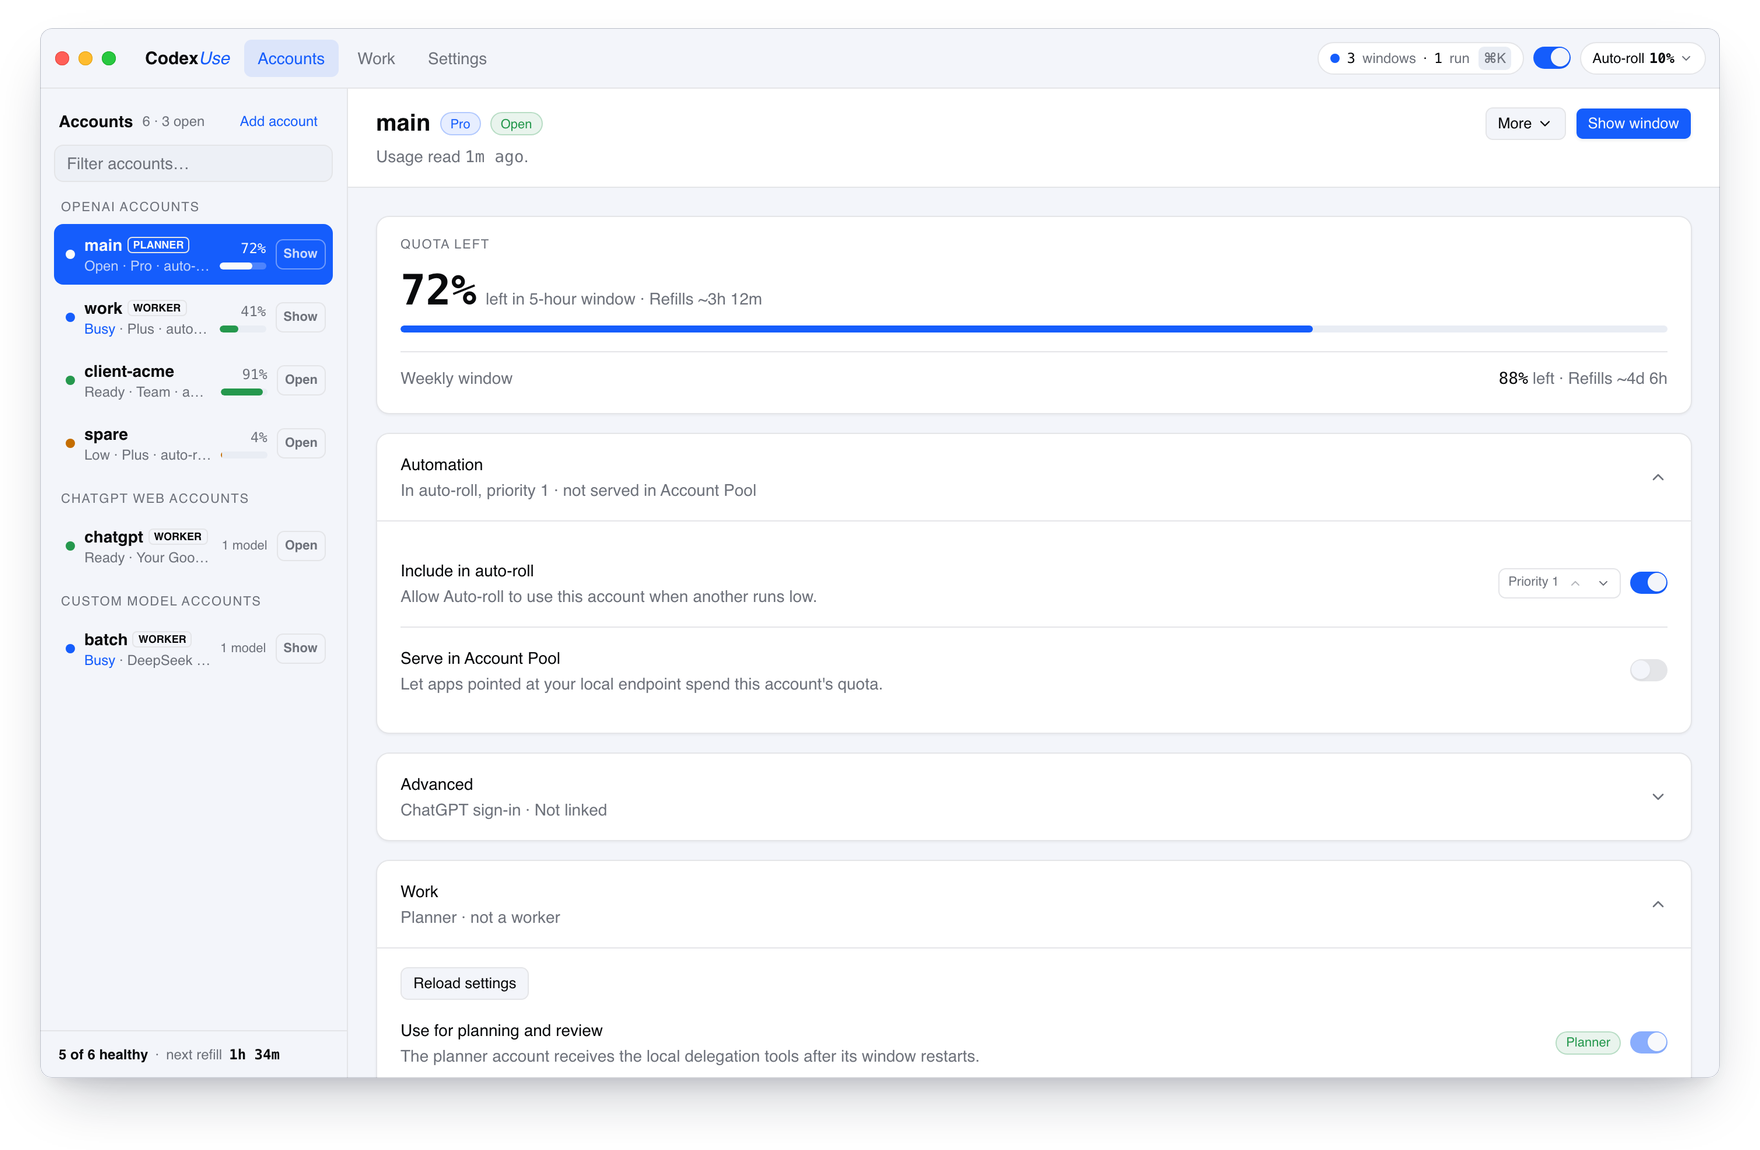
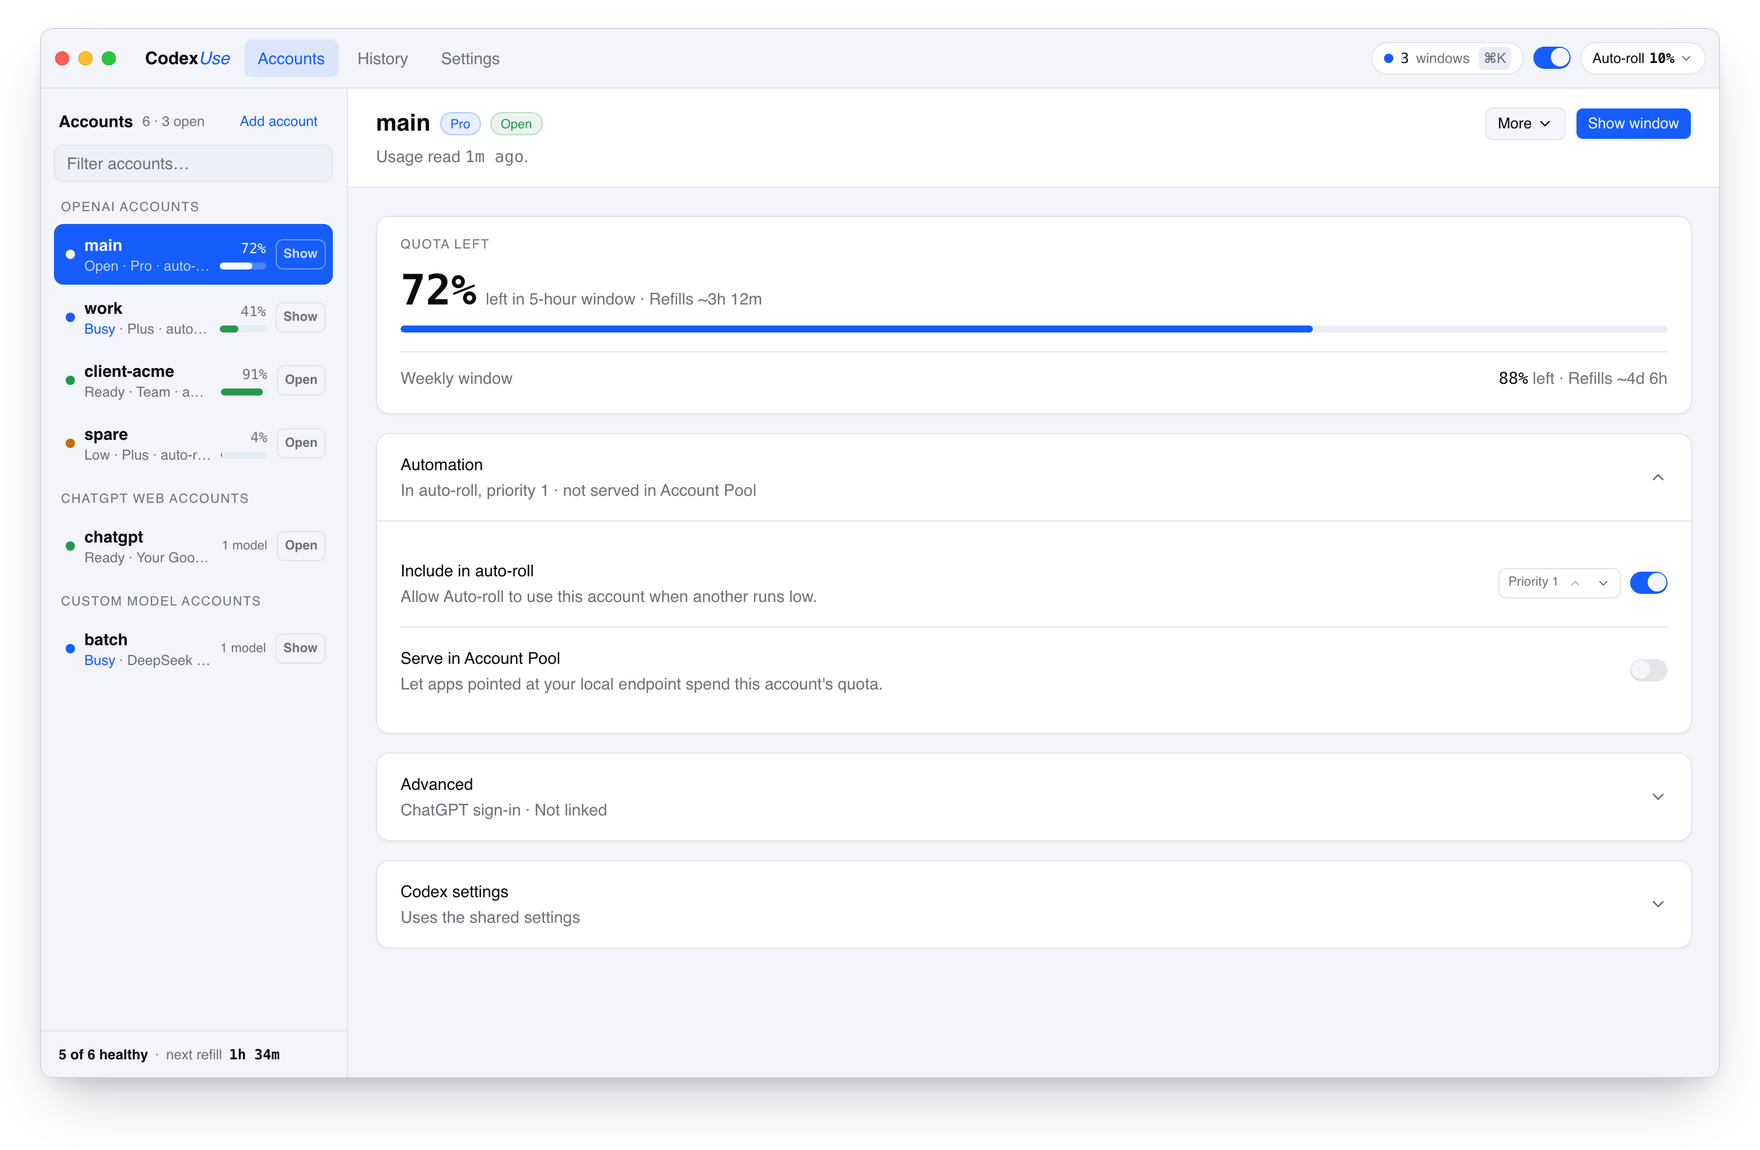
docs: remove Work from the README for v6.5.0

diff --git a/README.md b/README.md
@@ -1,6 +1,6 @@
 <p align="center">
   <a href="https://codexuse.com">
-    <img src=".github/assets/banner.png" width="880" alt="CodexUse. Plan with your best model. Build with the right model.">
+    <img src=".github/assets/banner.png" width="880" alt="CodexUse. Every Codex account. One app.">
   </a>
 </p>
 
@@ -19,33 +19,17 @@
   <a href="https://codexuse.com/docs/"><b>Docs</b></a>
 </p>
 
-CodexUse is a desktop app for people who use the Codex app and the Codex CLI with more than one account. Every account keeps its own Codex home. On a Mac, one account plans a task in its own Codex window, another account builds it in an isolated Git worktree, and you review the diff before you accept it.
+CodexUse is a desktop app for people who use the Codex app and the Codex CLI with more than one account. Every account keeps its own Codex home, and on a Mac its own Codex window. Every local Codex task from every account shows up in one History.
 
 This repository holds the public downloads and the issue tracker. It does not contain the app source. CodexUse is independent and not affiliated with OpenAI.
 
 <p align="center">
   <a href="https://codexuse.com/#film">
-    <img src=".github/assets/film-poster.jpg" width="880" alt="Watch the one-minute CodexUse film">
+    <img src=".github/assets/film-poster.jpg" width="880" alt="Watch the CodexUse film">
   </a>
   <br>
-  <sub><a href="https://codexuse.com/#film">Watch the one-minute film</a></sub>
+  <sub><a href="https://codexuse.com/#film">Watch the film</a></sub>
 </p>
-
-## Work: plan on one account, build on another
-
-<picture>
-  <source media="(prefers-color-scheme: dark)" srcset=".github/assets/work-dark.png">
-  <img src=".github/assets/work-light.png" width="880" alt="CodexUse Work: the planner has finished, two worker accounts build in separate Git worktrees, and the result waits for review.">
-</picture>
-
-Describe the task, pick a folder, and choose separate planner and worker accounts. The planner plans in its own Codex window. Each worker builds in an isolated Git worktree with a bounded brief and runs your checks. Work needs macOS.
-
-<picture>
-  <source media="(prefers-color-scheme: dark)" srcset=".github/assets/review-dark.png">
-  <img src=".github/assets/review-light.png" width="880" alt="CodexUse review: the changed files of a finished job, the diff, and passing checks.">
-</picture>
-
-Read the diff and the check results, then accept. Accept applies the changes to your working folder; you commit and push them yourself. Work does not replace Codex subagents.
 
 ## Accounts: every account in its own home
 
@@ -58,6 +42,7 @@ Read the diff and the check results, then accept. Accept applies the changes to 
 - **Status in one word:** Open, Busy, Ready, Low, Needs sign-in, Needs setup.
 - **Headroom and refill timers** as Codex reports them. Refill controls attempt short background requests; they do not add quota or speed up refill times.
 - **Auto-roll** on macOS moves new work to the next account below a threshold you set. It does not move a running conversation.
+- **History** lists every local Codex task from every account and opens each one in the account that owns it.
 - **Shared Codex defaults** with small per-account overrides.
 
 ## More than OpenAI logins
@@ -91,7 +76,7 @@ On macOS, open the disk image and drag CodexUse into Applications. If macOS repo
 | Separate accounts, each in its own Codex home | ✓ | ✓ | ✓ |
 | ChatGPT Web and custom-model accounts | ✓ | ✓ | ✓ |
 | Headroom, refill timers, History, Account Pool, Cloud Sync | ✓ | ✓ | ✓ |
-| One Codex window per account, Work, Auto-roll, Telegram | ✓ | | |
+| One Codex window per account, Auto-roll, Telegram | ✓ | | |
 | Computer Use for agents | ✓ | | |
 
 The features marked macOS only drive OpenAI's Codex app or ChatGPT Desktop for Mac. The separate [CLI](https://codexuse.com/docs/cli/) runs on all three platforms with `npm install -g codexuse-cli`; it does not have every desktop feature.
@@ -108,4 +93,4 @@ Buy inside CodexUse to activate automatically. If you buy on the website, enter 
 
 ## Links
 
-[Website](https://codexuse.com/) · [Getting started](https://codexuse.com/docs/getting-started/) · [Work](https://codexuse.com/docs/work/) · [Accounts](https://codexuse.com/docs/accounts/) · [Platforms](https://codexuse.com/docs/desktop/) · [Release notes](https://codexuse.com/releases/) · [Report an issue](https://github.com/hweihwang/codexuse-desktop-releases/issues)
+[Website](https://codexuse.com/) · [Getting started](https://codexuse.com/docs/getting-started/) · [Accounts](https://codexuse.com/docs/accounts/) · [Platforms](https://codexuse.com/docs/desktop/) · [Release notes](https://codexuse.com/releases/) · [Report an issue](https://github.com/hweihwang/codexuse-desktop-releases/issues)
